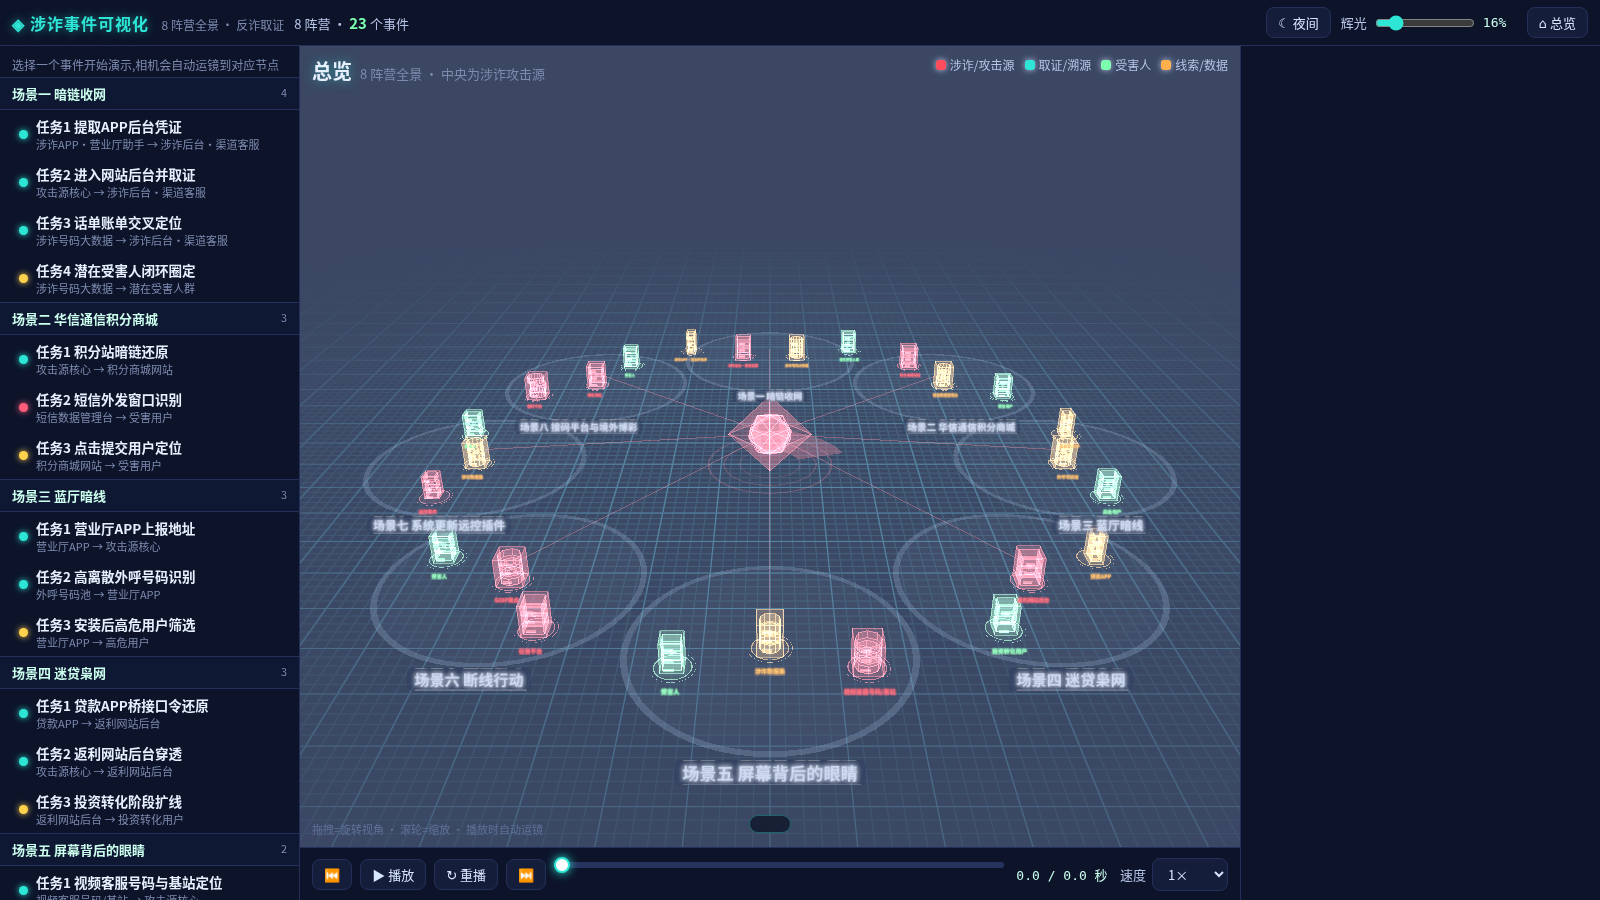
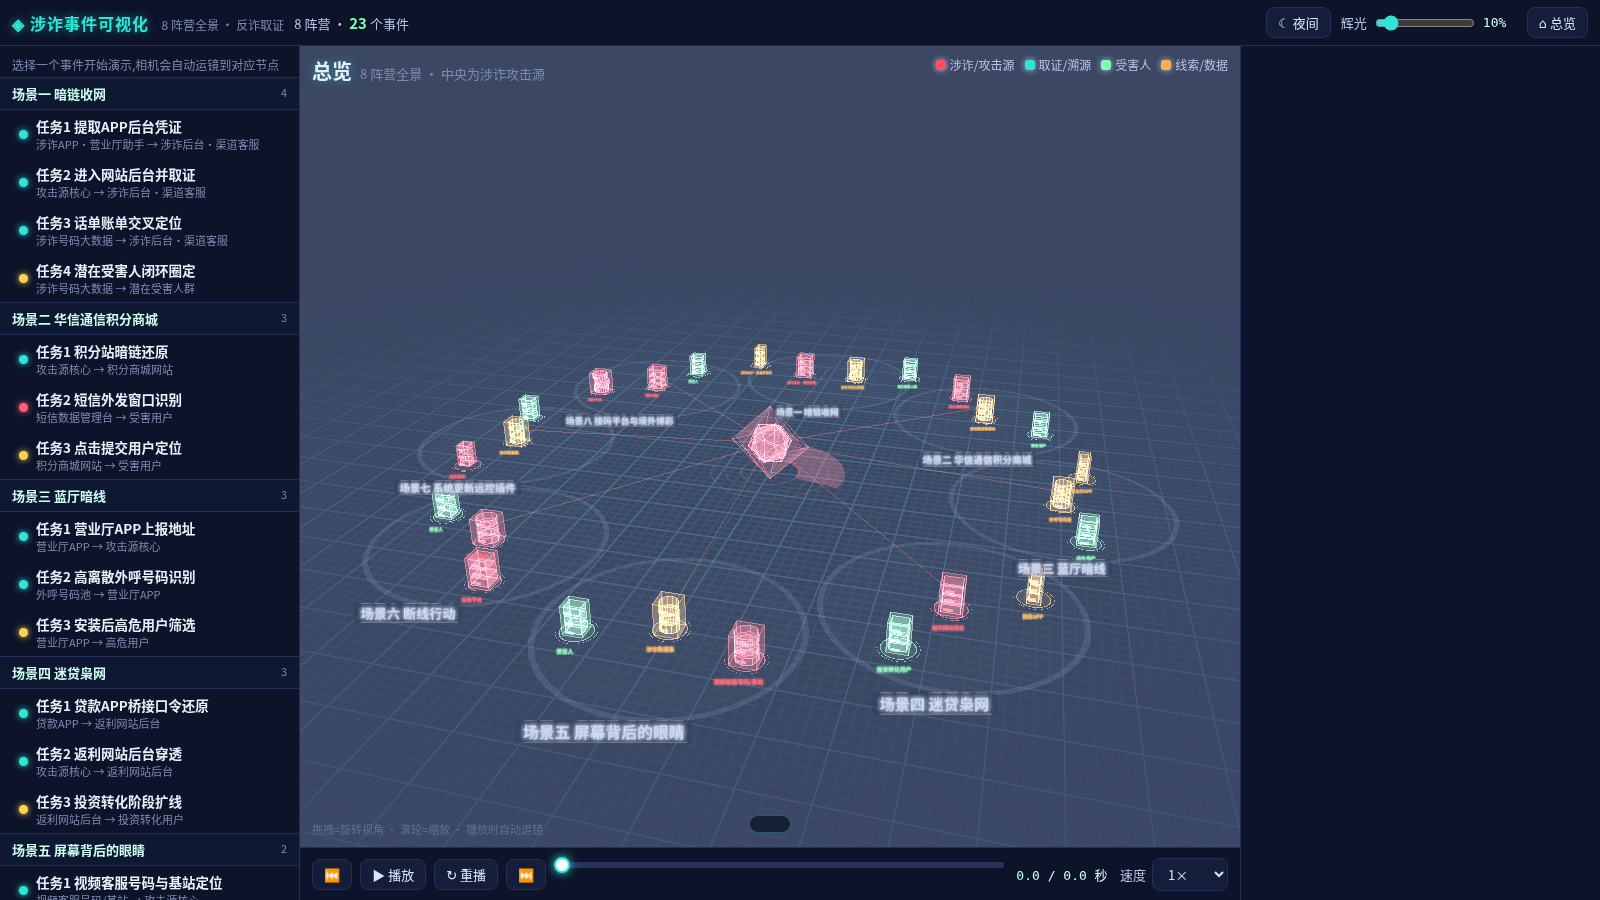
再压暗去泛白;去掉聚焦取景框;核心固定居中,无事件时相机绕中心自动旋转

Changed region(s): [[0.2188, 0.3422, 0.75, 0.8711]]

diff --git a/js/stage-world.js b/js/stage-world.js
@@ -4,7 +4,7 @@
 const S = window.SEC, T = S.T, V3 = S.V3, { COL, col, clamp, sm, eo, rng, U, Glow, Node, PR, Ctx, holoMat, addMat, lineMat, textSprite, AZ } = S;
 const W = window.FRAUD_WORLD;
   // 大场景节点多,整体降一档辉光避免发白
-  if (S.TUNE) { S.TUNE.glowA = 0.4; S.TUNE.glowS = 0.72; }
+  if (S.TUNE) { S.TUNE.glowA = 0.3; S.TUNE.glowS = 0.66; }
 const lerp = (a, b, k) => a + (b - a) * k;
 const easeIO = x => x < 0.5 ? 4 * x * x * x : 1 - Math.pow(-2 * x + 2, 3) / 2;
 
@@ -42,19 +42,19 @@ function Stage(canvas, host) {
   const grid = new T.Mesh(new T.PlaneGeometry(180, 180), new T.ShaderMaterial({
     uniforms: { uDay: { value: 0 } }, transparent: true, depthWrite: false, blending: T.AdditiveBlending,
     vertexShader: 'varying vec3 vW;void main(){vec4 w=modelMatrix*vec4(position,1.);vW=w.xyz;gl_Position=projectionMatrix*viewMatrix*w;}',
-    fragmentShader: 'varying vec3 vW;uniform float uDay;void main(){vec2 p=vW.xz;vec2 g=abs(fract(p-.5)-.5)/fwidth(p);float l=1.-min(min(g.x,g.y),1.);vec2 g2=abs(fract(p/5.-.5)-.5)/fwidth(p/5.);float l2=1.-min(min(g2.x,g2.y),1.);float d=length(p)*0.016;float f=exp(-d*d*1.6);if(uDay>0.5){float a=clamp((l*.6+l2*.9)*f,0.,.8);gl_FragColor=vec4(vec3(.27,.32,.39),a);}else{gl_FragColor=vec4(vec3(.1,.34,.48)*(l*.18+l2*.4)*f+vec3(0.,.09,.13)*f*.04,1.);}}',
+    fragmentShader: 'varying vec3 vW;uniform float uDay;void main(){vec2 p=vW.xz;vec2 g=abs(fract(p-.5)-.5)/fwidth(p);float l=1.-min(min(g.x,g.y),1.);vec2 g2=abs(fract(p/5.-.5)-.5)/fwidth(p/5.);float l2=1.-min(min(g2.x,g2.y),1.);float d=length(p)*0.016;float f=exp(-d*d*1.6);if(uDay>0.5){float a=clamp((l*.6+l2*.9)*f,0.,.8);gl_FragColor=vec4(vec3(.27,.32,.39),a);}else{gl_FragColor=vec4(vec3(.08,.26,.38)*(l*.13+l2*.3)*f+vec3(0.,.07,.1)*f*.03,1.);}}',
   }));
   grid.rotation.x = -Math.PI / 2; grid.position.y = -0.02; scene.add(grid);
 
   const glow = new Glow(26000); scene.add(glow.points);
-  const ambient = []; { const r = rng(7); for (let i = 0; i < 70; i++) ambient.push([(r() - .5) * 90, r() * 8, (r() - .5) * 90, r() * 6.28, 0.4 + r() * 0.8]); }
+  const ambient = []; { const r = rng(7); for (let i = 0; i < 48; i++) ambient.push([(r() - .5) * 88, r() * 7, (r() - .5) * 88, r() * 6.28, 0.4 + r() * 0.8]); }
 
   // ---- 阵营地台 + 名称 ----
   const campLabels = [];
   W.CAMPS.forEach((camp, ci) => {
     const p = camp.pos; const g = new T.Group(); g.position.set(p.x, 0, p.z);
-    const ring = new T.Mesh(new T.RingGeometry(10.5, 11.0, 64), addMat(COL.info, 0.10, T.DoubleSide)); ring.rotation.x = -Math.PI / 2; ring.position.y = 0.01; g.add(ring);
-    const disk = new T.Mesh(new T.CircleGeometry(10.5, 48), addMat(COL.info, 0.015, T.DoubleSide)); disk.rotation.x = -Math.PI / 2; disk.position.y = 0.005; g.add(disk);
+    const ring = new T.Mesh(new T.RingGeometry(10.5, 11.0, 64), addMat(COL.info, 0.06, T.DoubleSide)); ring.rotation.x = -Math.PI / 2; ring.position.y = 0.01; g.add(ring);
+    const disk = new T.Mesh(new T.CircleGeometry(10.5, 48), addMat(COL.info, 0.008, T.DoubleSide)); disk.rotation.x = -Math.PI / 2; disk.position.y = 0.005; g.add(disk);
     scene.add(g);
     const lab = textSprite(camp.name, { h: 1.6, color: '#9fb6e6', bg: 'rgba(9,14,32,0.6)' }); lab.position.set(p.x, 0.2, p.z + 12.5); scene.add(lab); campLabels.push({ lab, baseC: '#9fb6e6' });
   });
@@ -85,8 +85,8 @@ function Stage(canvas, host) {
 
   // ---- 后处理 ----
   let composer = null, bloom = { strength: 0.2, threshold: 0.78 };
-  try { composer = new T.EffectComposer(renderer); composer.addPass(new T.RenderPass(scene, cam)); bloom = new T.UnrealBloomPass(new T.Vector2(960, 540), 0.16, 0.7, 0.86); composer.addPass(bloom); } catch (e) { console.error(e); composer = null; self.safe = true; }
-  self.bloomUser = 0.16; self.bloomNight = 0.86;
+  try { composer = new T.EffectComposer(renderer); composer.addPass(new T.RenderPass(scene, cam)); bloom = new T.UnrealBloomPass(new T.Vector2(960, 540), 0.10, 0.55, 0.9); composer.addPass(bloom); } catch (e) { console.error(e); composer = null; self.safe = true; }
+  self.bloomUser = 0.10; self.bloomNight = 0.9;
   self.setBloom = v => { self.bloomUser = v; bloom.strength = (S.day ? 0.5 : 1) * v; };
   self.applyTheme = function (theme) {
     const day = theme === 'light'; S.day = day; const pal = S.paintPalette(day ? 'light' : 'dark');
@@ -102,27 +102,23 @@ function Stage(canvas, host) {
   new ResizeObserver(resize).observe(host); window.addEventListener('resize', resize);
 
   // ---- 交互:拖拽旋转、滚轮缩放(事件播放时自动运镜会接管) ----
-  let drag = null;
+  let drag = null; self.idle = true; let lastNow = performance.now();
   canvas.addEventListener('pointerdown', e => { canvas.setPointerCapture(e.pointerId); drag = { x: e.clientX, y: e.clientY }; tw.on = false; });
   canvas.addEventListener('pointermove', e => { if (!drag) return; camS.az -= (e.clientX - drag.x) * 0.006; camS.el = clamp(camS.el + (e.clientY - drag.y) * 0.005, 0.12, 1.45); drag.x = e.clientX; drag.y = e.clientY; place(); self.dirty = true; });
   const up = e => { drag = null; }; canvas.addEventListener('pointerup', up); canvas.addEventListener('pointercancel', up);
   canvas.addEventListener('wheel', e => { e.preventDefault(); camS.dist = clamp(camS.dist * Math.exp(e.deltaY * 0.0012), 26, 160); tw.on = false; place(); self.dirty = true; }, { passive: false });
-  self.resetView = () => { tweenTo({ az: 0, el: 26 * Math.PI / 180, dist: 96, target: new V3(0, 2, 0) }, 1.1); };
+  self.resetView = () => { self.idle = true; tweenTo({ az: camS.az, el: 24 * Math.PI / 180, dist: 100, target: new V3(0, 3.0, 0) }, 1.1); };
   self.overview = self.resetView;
 
   // ---- 事件加载 ----
   let ctx = null, ups = [], ev = null;
   function framing(from, to) {
+    // 中央核心始终居中:相机绕中心,朝向激活阵营,不聚焦/不拉近到节点对
     const a = resolve(from).center(), b = resolve(to).center();
     const pair = a.clone().add(b).multiplyScalar(0.5);
-    // 目标点:偏向这对节点,同时略带中心,保证中央攻击源始终在画面里
-    const coreC = new V3(0, 3.2, 0);
-    const target = pair.clone().lerp(coreC, 0.32); target.y = 3.2;
-    // 统一成偏低、略带 3/4 的攻击视角
-    const dirOut = new V3(target.x, 0, target.z); if (dirOut.length() < 1) dirOut.set(0, 0, 1); dirOut.normalize();
-    const az = Math.atan2(dirOut.x, dirOut.z) + 22 * Math.PI / 180;
-    const sep = a.distanceTo(b); const dist = clamp(46 + sep * 0.55, 50, 74);
-    return { az, el: 18.5 * Math.PI / 180, dist, target };
+    const dirOut = new V3(pair.x, 0, pair.z); if (dirOut.length() < 1) dirOut.set(0, 0, 1); dirOut.normalize();
+    const az = Math.atan2(dirOut.x, dirOut.z) + 14 * Math.PI / 180;
+    return { az, el: 19 * Math.PI / 180, dist: 92, target: new V3(0, 3.2, 0) };
   }
   function buildFx(e) {
     const F = resolve(e.from), Tg = resolve(e.to);
@@ -133,8 +129,6 @@ function Stage(canvas, host) {
     const shape = e.role === 'extract' ? 'key' : e.role === 'control' ? 'bolt' : 'user';
     const fx = [];
     // 聚焦这对节点/核心
-    if (!fromCore) fx.push(['focus', 0, e.dur - 0.4, { at: e.from, col: 'def', r: 3.0, h: 5.0 }]);
-    if (!toCore) fx.push(['focus', e.dur * 0.62, e.dur - 0.4, { at: e.to, col: roleCol === 'warn' ? 'warn' : 'atk', r: 3.0, h: 5.0 }]);
     // 源:向上升起(还原/提取线索)
     fx.push(['riser', e.dur * 0.16, e.dur * 0.52, { at: fromCore ? 'coreR' : e.from, col: srcCol, y0: fTop.y, y1: fTop.y + 5 }]);
     // 暗链:源顶 → 目标顶
@@ -154,15 +148,15 @@ function Stage(canvas, host) {
     ctx.ids.src = F.isCore ? coreProxy : F; ctx.ids.dst = Tg.isCore ? coreProxy : Tg;
     const fx = buildFx(event);
     fx.forEach(e => { const f = PR[e[0]]; if (!f) { self.errors.push(event.id + ': 未知原语 ' + e[0]); return; } try { ups.push(f(ctx, e[1], e[2], e[3] || {})); } catch (err) { self.errors.push(event.id + ':' + e[0] + ':' + err.message); console.error(err); } });
-    tweenTo(framing(event.from, event.to), 1.2);
+    self.idle = false; tweenTo(framing(event.from, event.to), 1.4);
     self.dirty = true; return ctx;
   };
   self.load0 = function () { self.resetView(); }; // 总览
 
   self.draw = function (t) {
-    if (self.lost) return; updateTween(); U.uTime.value = t; glow.clear();
+    if (self.lost) return; const _n = performance.now(), _dt = Math.min(0.05, (_n - lastNow) / 1000); lastNow = _n; updateTween(); if (self.idle && !drag && !tw.on) { camS.az += _dt * 0.12; place(); } U.uTime.value = t; glow.clear();
     // 环境粒子
-    ambient.forEach(a => glow.add(a[0] + Math.sin(t * .2 * a[4] + a[3]) * .8, a[1] + Math.sin(t * .15 * a[4]) * .4, a[2] + Math.cos(t * .18 * a[4] + a[3]) * .6, 0.05, COL.def, S.day ? 0.08 : 0.12));
+    ambient.forEach(a => glow.add(a[0] + Math.sin(t * .2 * a[4] + a[3]) * .8, a[1] + Math.sin(t * .15 * a[4]) * .4, a[2] + Math.cos(t * .18 * a[4] + a[3]) * .6, 0.045, COL.def, S.day ? 0.06 : 0.09));
     // 核心动效
     coreMesh.rotation.y = t * 0.5; coreMesh.rotation.x = t * 0.25; shell.rotation.y = -t * 0.3;
     const pulse = 1 + 0.08 * Math.sin(t * 3); coreMesh.scale.setScalar(pulse);
@@ -171,7 +165,7 @@ function Stage(canvas, host) {
     sweepM.rotation.z = -t * 1.1; sweepM.material.color.copy(col('atk'));
     spokes.forEach(l => { l.material.color.copy(col('atk')); l.material.opacity = S.day ? 0.12 : 0.14 + 0.05 * Math.sin(t * 1.5); });
     for (const o of [coreEdge, shellEdge]) o.material.color.copy(col('atk'));
-    glow.add(0, 3.4, 0, 1.7 * pulse, col('atk'), 0.65);
+    glow.add(0, 3.4, 0, 1.4 * pulse, col('atk'), 0.5);
     // 节点 reset + 事件 + apply
     nodes.forEach(n => n.reset());
     for (let i = 0; i < ups.length; i++) { try { ups[i](t); } catch (err) { self.errors.push((ev ? ev.id : '') + '@' + t.toFixed(2) + ':' + err.message); ups[i] = () => {}; } }

diff --git a/js/app-world.js b/js/app-world.js
@@ -24,7 +24,7 @@ function init() {
   $('scrub').oninput = () => { ST.t = $('scrub').value / 100; ST.playing = false; sync(); };
   $('speed').onchange = () => { ST.speed = +$('speed').value; };
   $('bHome').onclick = () => { ST.playing = false; ST.cur = -1; $('title').innerHTML = `<b>总览</b><span>8 阵营全景</span>`; $('cap').textContent = ''; renderList(); if (stage) stage.overview(); };
-  const bl = $('bloom'); bl.value = 16; const setB = () => { stage && stage.setBloom(bl.value / 100); $('bloomV').textContent = bl.value + '%'; }; bl.oninput = setB; setB();
+  const bl = $('bloom'); bl.value = 10; const setB = () => { stage && stage.setBloom(bl.value / 100); $('bloomV').textContent = bl.value + '%'; }; bl.oninput = setB; setB();
   addEventListener('keydown', e => {
     if (e.target.tagName === 'INPUT') return; const k = e.key;
     if (k === ' ') { e.preventDefault(); $('bPlay').click(); } else if (k === 'r' || k === 'R') $('bReplay').click();

diff --git a/index.html b/index.html
@@ -16,7 +16,7 @@
     <div class="grow"></div>
     <a class="navbtn" href="scene1.html" title="单场景细看:场景一·任务1">▸ 单场景细看</a>
     <button id="bTheme" type="button" title="当前夜间,点击切换到日间" aria-pressed="false">☾ 夜间</button>
-    <label class="bl" title="全局辉光强度">辉光 <input id="bloom" autocomplete="off" type="range" min="0" max="100" step="1" value="16"><span id="bloomV">16%</span></label>
+    <label class="bl" title="全局辉光强度">辉光 <input id="bloom" autocomplete="off" type="range" min="0" max="100" step="1" value="10"><span id="bloomV">10%</span></label>
     <button id="bHome" title="回到 8 阵营总览视角">⌂ 总览</button>
   </header>
   <main>
